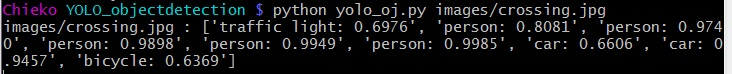
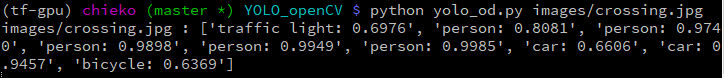
Rename files

Changed region(s): [[0.0, 0.0, 1.0, 1.0], [0.0, 0.9459, 0.0304, 1.0]]

diff --git a/yolo_od.py b/yolo_od.py
@@ -5,7 +5,7 @@ import argparse
 import time
 import cv2
 import os
-from yolo_oj_utils import yolo_object_detection
+from yolo_od_utils import yolo_object_detection
 
 # Get options specified in the command line
 parser = argparse.ArgumentParser()

diff --git a/README.md b/README.md
@@ -6,8 +6,8 @@ This program performs object detection on input images of your choice. I employe
 
 ## Source files
 
- - `yolo_oj.py` : Python file. This is the main file for this program.
- - `yolo_oj_utils.py` : Python file. This contains subfunctions.
+ - `yolo_od.py` : Python file. This is the main file for this program.
+ - `yolo_od_utils.py` : Python file. This contains subfunctions.
 
 ## Input files
 
@@ -25,9 +25,9 @@ These files were obtained by following the instruction described in **Darknet**'
 
 ## Usage
 
-After you download those files above, simply execute the command below in the directory where 'yolo_ob.py' is located.
+After you download those files above, simply execute the command below in the directory where 'yolo_od.py' is located.
 ```
- > python yolo_ob.py <image files ...>
+ > python yolo_od.py <image files ...>
 ```
 
 Before you run this command, you need to prepare image files you want to try out. It's possible to specify multiple image files. If you do so, it performs object detection on each image file in a row.
@@ -43,7 +43,7 @@ The value of both parameters should be between 0.0 to 1.0. The default value is 
 
 example)
 ```
-  > python yolo_ob.py -c 0.4 -t 0.3 my_imagefile.jpg
+  > python yolo_od.py -c 0.4 -t 0.3 my_imagefile.jpg
 ```
 
 ### Example1
